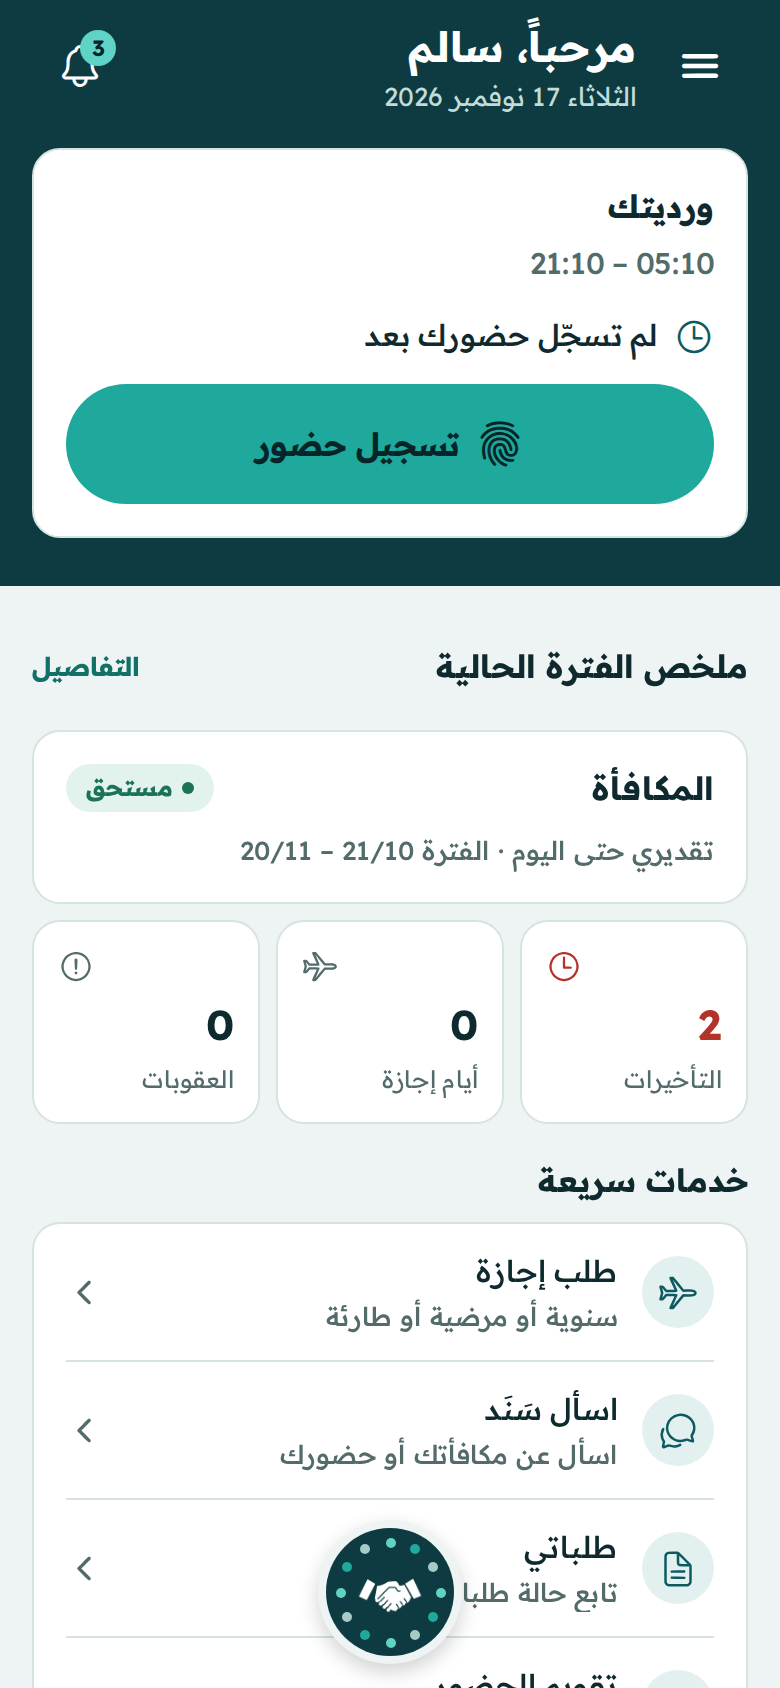
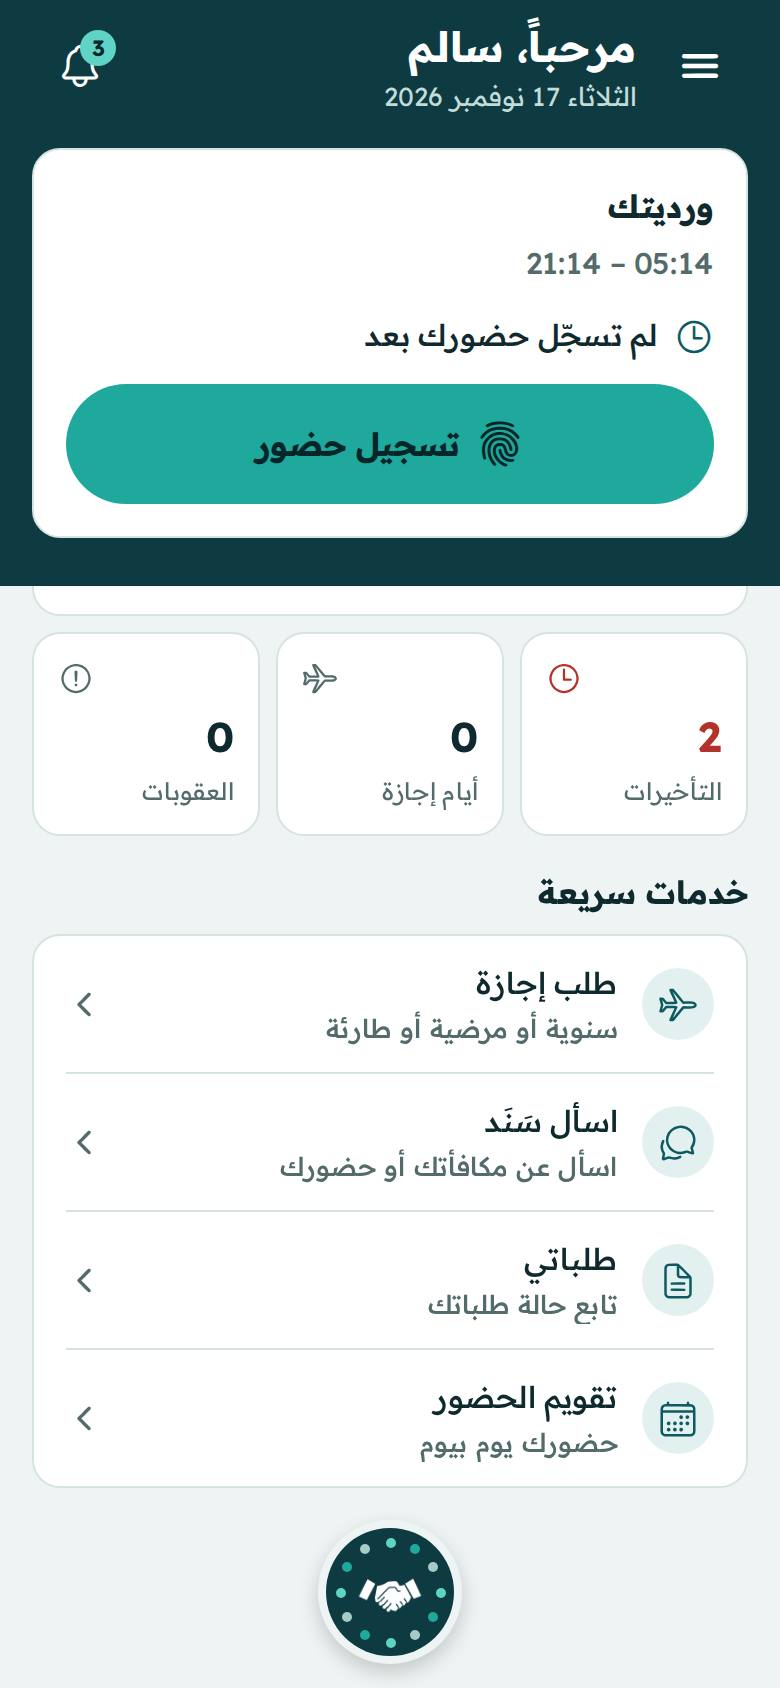
Sanad button: every screen reserves the button's room at the bottom (scroll, footer, fixed body)
The room is derived from the button's own size, halo and lift, plus a 16 gap and the
safe-area inset, so the last row always scrolls fully above it. Test added; home
screenshots retaken scrolled to the bottom.

diff --git a/apps/mobile/src/components/ui.tsx b/apps/mobile/src/components/ui.tsx
@@ -148,21 +148,25 @@ export function Screen({ children, scroll = true, padded = true, refreshControl,
   const nav = useNav();
   const insets = useSafeAreaInsets();
   const pad = padded ? { paddingHorizontal: space.lg, paddingTop: space.lg } : null;
+  // Space below the content (or below a footer form) that nothing may cover: the safe area, plus the
+  // Sanad button's room where it floats, so the last row and the footer always sit above the button.
+  const under = insets.bottom + (nav?.sanadButton ? SANAD_BUTTON_ROOM : 0);
   return (
     <View style={{ flex: 1, backgroundColor: c.bg }}>
       {scroll ? (
         <ScrollView
-          contentContainerStyle={[pad, { paddingBottom: footer ? space.lg : insets.bottom + (nav?.sanadButton ? SANAD_BUTTON_ROOM : space.xl), gap: space.lg }, contentStyle]}
+          testID="screen-scroll"
+          contentContainerStyle={[pad, { paddingBottom: footer ? space.lg : under + (nav?.sanadButton ? 0 : space.xl), gap: space.lg }, contentStyle]}
           refreshControl={refreshControl}
           keyboardShouldPersistTaps="handled"
         >
           {children}
         </ScrollView>
       ) : (
-        <View style={[{ flex: 1 }, pad, contentStyle]}>{children}</View>
+        <View style={[{ flex: 1 }, pad, !footer && nav?.sanadButton ? { paddingBottom: under } : null, contentStyle]}>{children}</View>
       )}
       {footer ? (
-        <View style={{ paddingHorizontal: space.lg, paddingTop: space.md, paddingBottom: insets.bottom + space.md, borderTopWidth: StyleSheet.hairlineWidth, borderTopColor: c.line, backgroundColor: c.bg }}>
+        <View testID="screen-footer" style={{ paddingHorizontal: space.lg, paddingTop: space.md, paddingBottom: under + (nav?.sanadButton ? 0 : space.md), borderTopWidth: StyleSheet.hairlineWidth, borderTopColor: c.line, backgroundColor: c.bg }}>
           {footer}
         </View>
       ) : null}

diff --git a/apps/mobile/src/components/nav/__tests__/nav.test.tsx b/apps/mobile/src/components/nav/__tests__/nav.test.tsx
@@ -127,3 +127,28 @@ it('closes from the backdrop', async () => {
   await settle();
   expect(screen.queryByTestId('side-menu')).toBeNull();
 });
+
+it('leaves room under the content so the last row scrolls fully above the Sanad button', async () => {
+  const { SANAD_BUTTON_ROOM, SANAD_BUTTON_TOP } = require('../../../lib/theme');
+  const { StyleSheet } = require('react-native');
+  const bottomOf = (id: string, key: 'contentContainerStyle' | 'style') => StyleSheet.flatten(screen.getByTestId(id).props[key]).paddingBottom as number;
+  // Safe-area inset is 16 in wrap().
+  await render(wrap(<Section />));
+  expect(SANAD_BUTTON_ROOM).toBeGreaterThanOrEqual(SANAD_BUTTON_TOP + 16);
+  expect(bottomOf('screen-scroll', 'contentContainerStyle')).toBe(16 + SANAD_BUTTON_ROOM);
+  await screen.unmount();
+  // A form footer sits above the button too.
+  await render(
+    wrap(
+      <Screen footer={<Txt>save</Txt>}>
+        <Txt>form</Txt>
+      </Screen>,
+    ),
+  );
+  expect(bottomOf('screen-footer', 'style')).toBe(16 + SANAD_BUTTON_ROOM);
+  await screen.unmount();
+  // Where the button is not shown, only the usual space.
+  mockPath = '/leave';
+  await render(wrap(<Section back />));
+  expect(bottomOf('screen-scroll', 'contentContainerStyle')).toBe(16 + 24);
+});

diff --git a/apps/mobile/src/components/nav/SanadButton.tsx b/apps/mobile/src/components/nav/SanadButton.tsx
@@ -4,7 +4,7 @@
 import { Pressable, View } from 'react-native';
 import { useSafeAreaInsets } from 'react-native-safe-area-context';
 import { useSettings } from '../../lib/settings';
-import { brand, SANAD_BUTTON, space } from '../../lib/theme';
+import { brand, SANAD_BUTTON, SANAD_BUTTON_HALO, SANAD_BUTTON_LIFT } from '../../lib/theme';
 import { BrandMark } from '../auth/Brand';
 
 const SEQUINS = 12;
@@ -16,13 +16,13 @@ export function SanadButton({ onPress }: { onPress: () => void }) {
   const { c, t } = useSettings();
   const insets = useSafeAreaInsets();
   const size = SANAD_BUTTON;
-  const halo = 4;
+  const halo = SANAD_BUTTON_HALO;
   const ring = size / 2 - SEQUIN - 2; // distance of each sequin's centre from the button's centre
   // Rail teal by day; one step lighter at night so it still stands off the dark ground.
   const fill = c.dark ? brand.railOn : brand.rail;
 
   return (
-    <View pointerEvents="box-none" style={{ position: 'absolute', left: 0, right: 0, bottom: insets.bottom + space.md, alignItems: 'center' }}>
+    <View pointerEvents="box-none" style={{ position: 'absolute', left: 0, right: 0, bottom: insets.bottom + SANAD_BUTTON_LIFT, alignItems: 'center' }}>
       <Pressable
         testID="sanad-button"
         onPress={onPress}

diff --git a/apps/mobile/src/lib/theme.ts b/apps/mobile/src/lib/theme.ts
@@ -136,6 +136,14 @@ export const type = {
 } as const;
 /** Minimum touch target (Android 48dp). */
 export const TOUCH = 48;
-/** Size of the round Sanad button at the bottom centre, and the room screens leave for it. */
+/** The round Sanad button at the bottom centre: its disc, the ring of screen ground around it, and its lift above the safe area. */
 export const SANAD_BUTTON = 64;
-export const SANAD_BUTTON_ROOM = SANAD_BUTTON + 28;
+export const SANAD_BUTTON_HALO = 4;
+export const SANAD_BUTTON_LIFT = space.md;
+/** Height the button takes above the safe-area inset (84). */
+export const SANAD_BUTTON_TOP = SANAD_BUTTON_LIFT + SANAD_BUTTON + SANAD_BUTTON_HALO * 2;
+/**
+ * Room every screen leaves at the bottom (above the safe-area inset) where the button floats, so the
+ * last row can always scroll fully above it with a clear gap (100).
+ */
+export const SANAD_BUTTON_ROOM = SANAD_BUTTON_TOP + space.lg;

diff --git a/apps/mobile/DESIGN.md b/apps/mobile/DESIGN.md
@@ -19,7 +19,7 @@ precise details, not decoration. Arabic first (RTL), English second; light and d
 ## Navigation (PRD 18.2, phase S7, owner decision 2026-11-17)
 - **No bottom tab bar.** Section roots (Home `/`, Requests `/requests`, Reports `/reports`, Account and settings `/more`) show the **three-line menu button** on the reading start of the header; pushed screens show Back instead.
 - **Side menu** (`components/nav/SideMenu.tsx`): the mobile twin of the web rail, in rail teal. It slides in from the right in Arabic and from the left in English and lists every section in groups: Home, Requests, Reports, My dashboard · Employee of the month (`/ideal-employee`), Ideas box (`/ideas`), Notifications, Emergency, Ask Sanad · Approvals and Employee record (staff only) · Account and settings. The current item has the `railOn` fill and one lit `railDot` disc, as in the panel. Back or a tap outside closes it; reduced motion removes the slide. From one section to another the screen is replaced, Home pops back to Home, anything else is pushed.
-- **The Sanad button** (`components/nav/SanadButton.tsx`): one 64dp round button at the bottom centre over the section roots, above the safe area. A rail-teal disc ringed with twelve small enamel discs (the towers' sequins) and the handshake logo, standing on a ring of the screen ground. It opens the assistant; label «اسأل سَنَد» with a hint. `Screen` leaves room under the last card for it (`SANAD_BUTTON_ROOM`), and the snackbar shows above it.
+- **The Sanad button** (`components/nav/SanadButton.tsx`): one 64dp round button at the bottom centre over the section roots, above the safe area. A rail-teal disc ringed with twelve small enamel discs (the towers' sequins) and the handshake logo, standing on a ring of the screen ground. It opens the assistant; label «اسأل سَنَد» with a hint. `Screen` reserves room at the bottom for it on every screen where it floats (`SANAD_BUTTON_ROOM` = the button's height above the safe area + 16, plus the inset), under scrolling content, under a non-scrolling body and under a `footer` form, so the last row always scrolls fully above it. The snackbar shows above it.
 - Menu items and their order are in `src/lib/nav.ts` (`menuGroups`, `navAction`); labels are the `menu_*` keys in `strings.json`.
 
 ## Tokens (`src/lib/theme.ts`)
